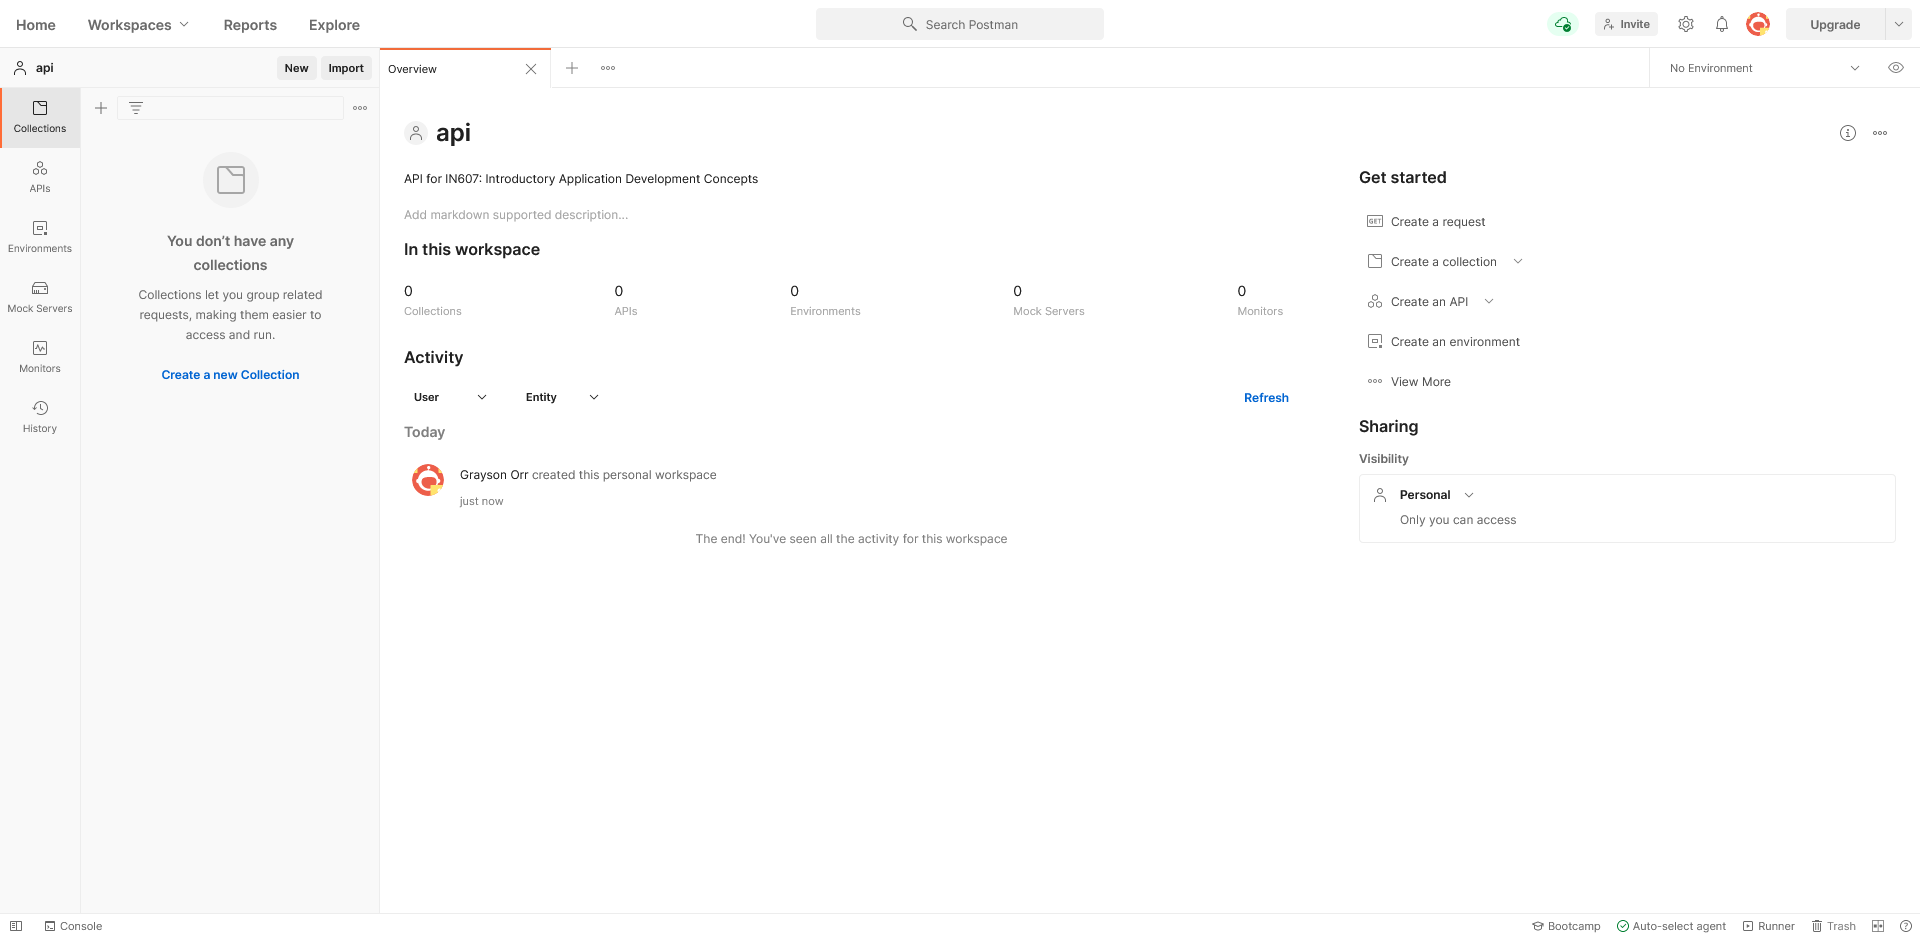
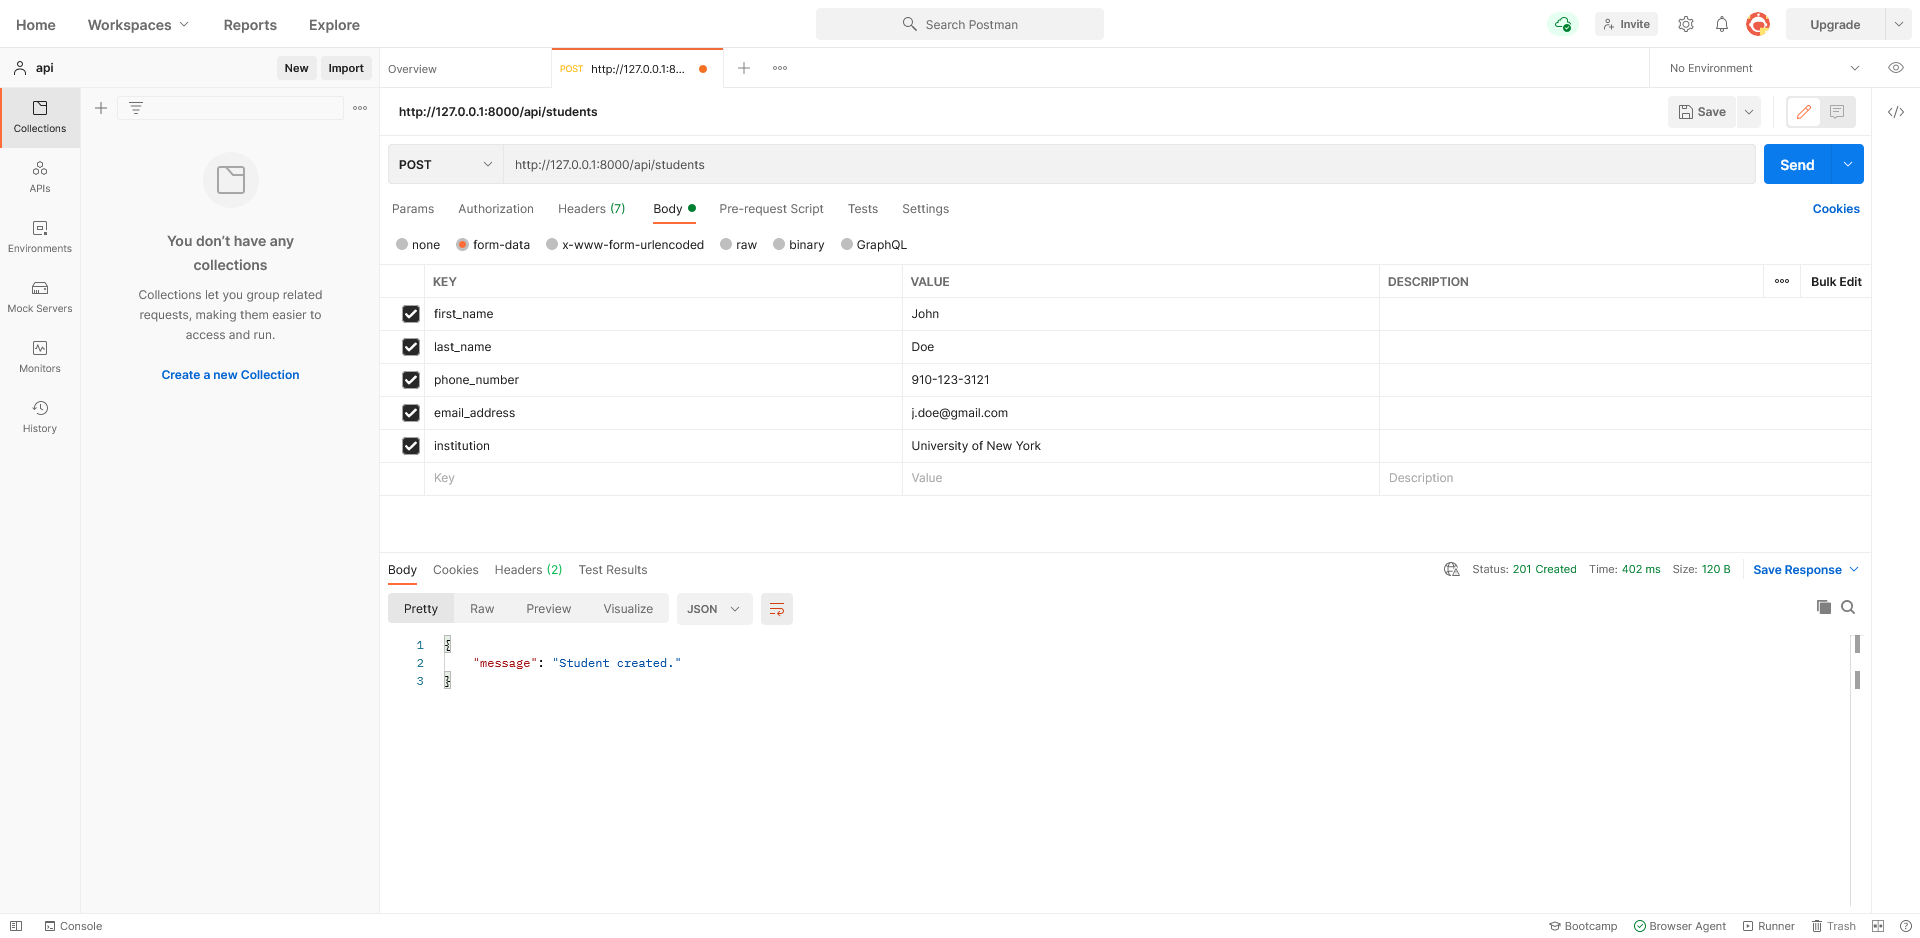
Update

diff --git a/02-laravel-1-rest-apis-postman/02-laravel-1-rest-apis-postman.md b/02-laravel-1-rest-apis-postman/02-laravel-1-rest-apis-postman.md
@@ -275,59 +275,59 @@ php artisan serve
 ```
 
 ## Postman
-[Postman](https://www.postman.com/) is an API development environment that allows you to design, mock & test your APIs. If you do not have Postman installed, you can download it [here](https://www.postman.com/downloads/). **Note:** the images below are from the online client.
+[Postman](https://www.postman.com/) is an API development environment that allows you to design, mock & test your APIs. 
 
-Navigate to https://web.postman.co/workspace/create. You may prompted to sign in. To create a new workspace, click the **New workspace** button (Fig.4).
-
-<figure>
-    <img src="../tex/img/02-laravel-1-rest-apis-postman/02-postman-1.png" width="700" height="400" alt="Postman workspaces" />
-    <figcaption>Fig.4 - Postman workspaces.</figcaption>
-</figure>
+Navigate to https://web.postman.co/workspace/create. You may prompted to sign in. Fill in the **Name** & **Summary** fields. Also, change the visibility to **Personal**. Click on the **Create Workplace** button (Fig.4). This will create a new workspace for you to test your **API** endpoints.
 
 <figure>
-    <img src="../tex/img/02-laravel-1-rest-apis-postman/02-postman-2.png" width="700" height="400" alt="Postman workspaces" />
-    <figcaption>Fig.4 - Postman workspaces.</figcaption>
+    <img src="../tex/img/02-laravel-1-rest-apis-postman/02-postman-1.png" width="700" height="400" alt="Create a Postman workspace" />
+    <figcaption>Fig.4 - Creating a new Postman workspace.</figcaption>
 </figure>
 
 ### Test your API Endpoints
 
-Click on the **+ (plus)** button to create a new request.
-
-To create a `Student`, change the HTTP method to `POST`, enter the URL - `http://127.0.0.1:8000/api/students`, change to the **Body** tab, click the **form-data** radio button, enter the `Student` data & click the **Send** button (Fig.5).
+Click on the **+ (plus)** button next to the **Overview** tab to create a new request (Fig.5).
 
 <figure>
-    <img src="../tex/img/02-laravel-1-rest-apis-postman/02-postman-2.png" width="750" height="500" alt="Create a student" />
-    <figcaption>Fig.5 - Creating a new student named John Doe.</figcaption>
+    <img src="../tex/img/02-laravel-1-rest-apis-postman/02-postman-2.png" width="700" height="400" alt="Create a Postman request" />
+    <figcaption>Fig.5 - Creating a new Postman request.</figcaption>
 </figure>
 
-</br>To update a `Student`, change the HTTP method to `PUT`, enter the URL - `http://127.0.0.1:8000/api/students/1`, update the `Student` data & click the **Send** button (Fig.6).
+To create a `Student`, change the HTTP method to `POST`, enter the URL - `http://127.0.0.1:8000/api/students`, change to the **Body** tab, click the **form-data** radio button, enter the `Student` data & click the **Send** button (Fig.6).
 
 <figure>
-    <img src="../tex/img/02-laravel-1-rest-apis-postman/02-postman-3.JPG" width="750" height="500" alt="Update a student" />
-    <figcaption>Fig.6 - Updating John's first name & email address.</figcaption>
+    <img src="../tex/img/02-laravel-1-rest-apis-postman/02-postman-3.png" width="700" height="400" alt="Create a student" />
+    <figcaption>Fig.6 - Creating a new student named John Doe.</figcaption>
 </figure>
 
-</br>To update a `Student`, change the HTTP method to `DELETE`, enter the URL - `http://127.0.0.1:8000/api/students/1` & click the **Send** button (Fig.7).
+</br>To update a `Student`, change the HTTP method to `PUT`, enter the URL - `http://127.0.0.1:8000/api/students/1`, change to the **Params** tab, update the `Student` data & click the **Send** button (Fig.7).
 
 <figure>
-    <img src="../tex/img/02-laravel-1-rest-apis-postman/02-postman-4.JPG" width="750" height="500" alt="Delete a student" />
-    <figcaption>Fig.7 - Deleting Jane.</figcaption>
+    <img src="../tex/img/02-laravel-1-rest-apis-postman/02-postman-4.png" width="750" height="500" alt="Update a student" />
+    <figcaption>Fig.7 - Updating John's first name & institution.</figcaption>
 </figure>
 
-</br>Now you know how to create a `Student`, add two `Students`.
-
-To get all `Students`, change the HTTP method to `GET`, enter the URL - `http://127.0.0.1:8000/api/students` & click the **Send** button (Fig.8).
+</br>To update a `Student`, change the HTTP method to `DELETE`, enter the URL - `http://127.0.0.1:8000/api/students/1` & click the **Send** button (Fig.8).
 
 <figure>
-    <img src="../tex/img/02-laravel-1-rest-apis-postman/02-postman-5.JPG" width="750" height="500" alt="Get all students" />
-    <figcaption>Fig.8 - Getting all students.</figcaption>
+    <img src="../tex/img/02-laravel-1-rest-apis-postman/02-postman-5.png" width="750" height="500" alt="Delete a student" />
+    <figcaption>Fig.8 - Deleting Jane.</figcaption>
+</figure>
+
+</br>Now you know how to create a `Student`, add two new `Students`.
+
+To get all `Students`, change the HTTP method to `GET`, enter the URL - `http://127.0.0.1:8000/api/students` & click the **Send** button (Fig.9).
+
+<figure>
+    <img src="../tex/img/02-laravel-1-rest-apis-postman/02-postman-6.png" width="750" height="500" alt="Get all students" />
+    <figcaption>Fig.9 - Getting all students.</figcaption>
 </figure>
 
 </br>To get a `Student`, change the HTTP method to `GET`, enter the URL - `http://127.0.0.1:8000/api/students/2` & click the **Send** button (Fig.9).
 
 <figure>
-    <img src="../tex/img/02-laravel-1-rest-apis-postman/02-postman-6.JPG" width="750" height="500" alt="Get a student" />
-    <figcaption>Fig.9 - Getting the student with the id 3.</figcaption>
+    <img src="../tex/img/02-laravel-1-rest-apis-postman/02-postman-7.JPG" width="750" height="500" alt="Get a student" />
+    <figcaption>Fig.9 - Getting the student with the id 2.</figcaption>
 </figure>
 
 <hr />
